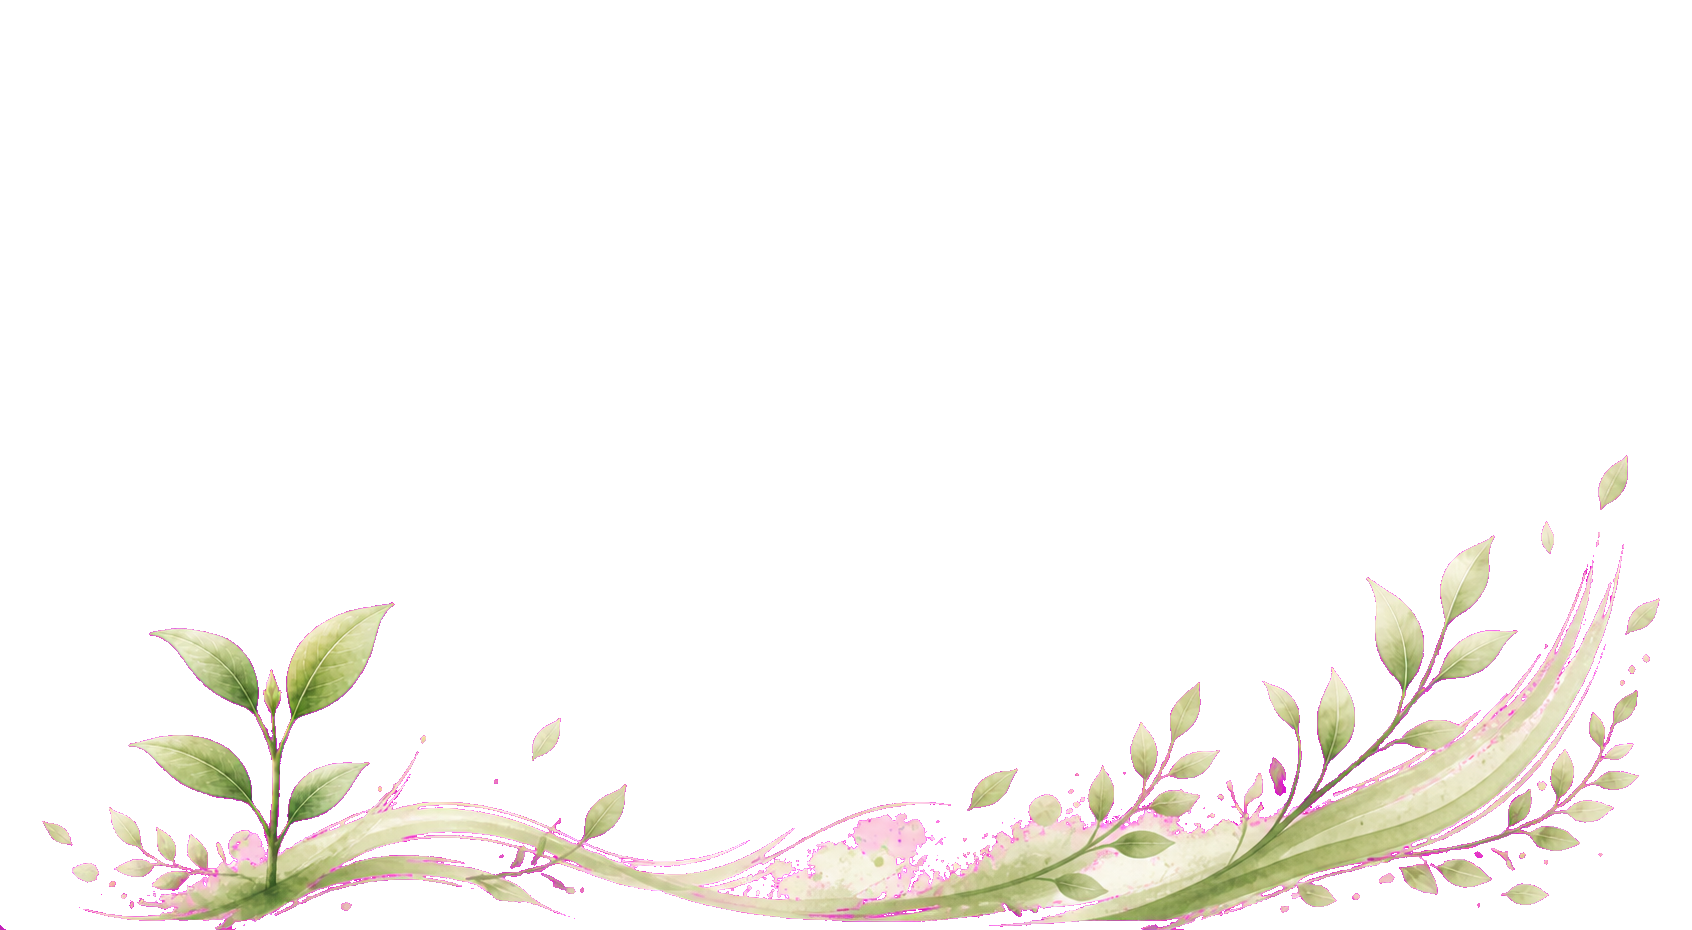
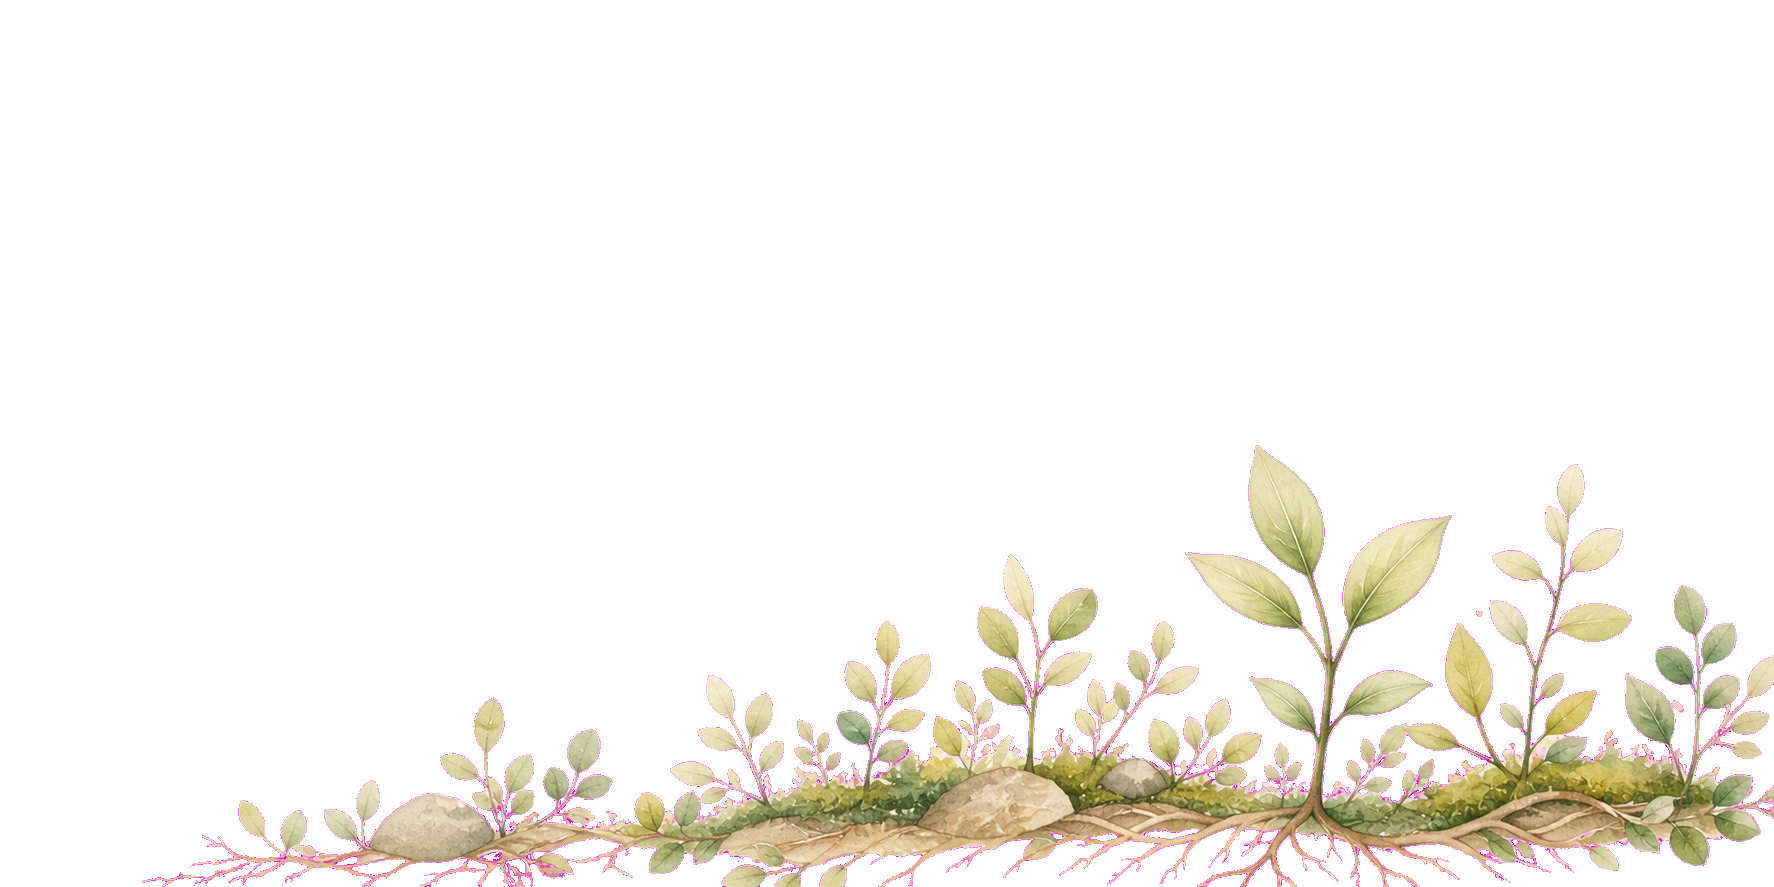
Add budget growth accent and polish auth design

Changed region(s): [[0.0307, 0.487, 1.0, 1.0], [0.922, 0.487, 0.9835, 0.5479]]

diff --git a/client/src/routes/budget/+page.svelte b/client/src/routes/budget/+page.svelte
@@ -4,7 +4,8 @@
 	import SavingsCard from '../../components/SavingsCard.svelte';
 </script>
 
-<div class="page">
+<div class="page budget-page">
+    <div class="budget-accent" aria-hidden="true"></div>
 	<header class="page-header">
 		<h1 class="page-title">Budget</h1>
 		<p class="page-subtitle">Hantera månadens inkomster, utgifter och sparande.</p>
@@ -35,4 +36,30 @@
 		flex-direction: column;
 		gap: 1.5rem;
 	}
+
+	.budget-page {
+    position: relative;
+    min-height: calc(100vh - 4rem);
+}
+
+.page-header,
+.layout {
+    position: relative;
+    z-index: 1;
+}
+
+.budget-accent {
+    position: absolute;
+    top: 0;
+    right: 1rem;
+    width: 700px;
+    height: 130px;
+    background-image: url('/images/budget-accent-transparent.png');
+    background-size: 700px auto;
+    background-repeat: no-repeat;
+    background-position: bottom right;
+    opacity: 0.65;
+    pointer-events: none;
+    z-index: 0;
+}
 </style>

diff --git a/client/src/routes/charts/+page.svelte b/client/src/routes/charts/+page.svelte
@@ -173,12 +173,12 @@
 		position: absolute;
 		left: 0;
 		right: -2rem;
-		bottom: -1rem;
+		bottom: -2rem;
 		height: 320px;
 		background-image: url('/images/charts-accent-transparent.png');
 		background-size: 1000px auto;
 		background-repeat: no-repeat;
-		background-position: bottom center;
+		background-position: bottom right;
 		opacity: 0.5;
 		pointer-events: none;
 		z-index: 0;

diff --git a/client/src/routes/register/+page.svelte b/client/src/routes/register/+page.svelte
@@ -38,7 +38,6 @@
 
 <div class="auth-page">
 	<section class="auth-intro">
-		<span class="brand">BudgetBuddy</span>
 		<h1>Bygg en tryggare ekonomi från början.</h1>
 		<p>Skapa ett konto och följ budget, utgifter och sparande med en tydlig överblick.</p>
 	</section>

diff --git a/client/src/routes/login/+page.svelte b/client/src/routes/login/+page.svelte
@@ -30,7 +30,6 @@
 
 <div class="auth-page">
 	<section class="auth-intro">
-		<span class="brand">BudgetBuddy</span>
 		<h1>Låt din ekonomi växa i lugn takt.</h1>
 		<p>Få överblick över budget, utgifter och sparande i en tydlig och trygg vy.</p>
 	</section>
